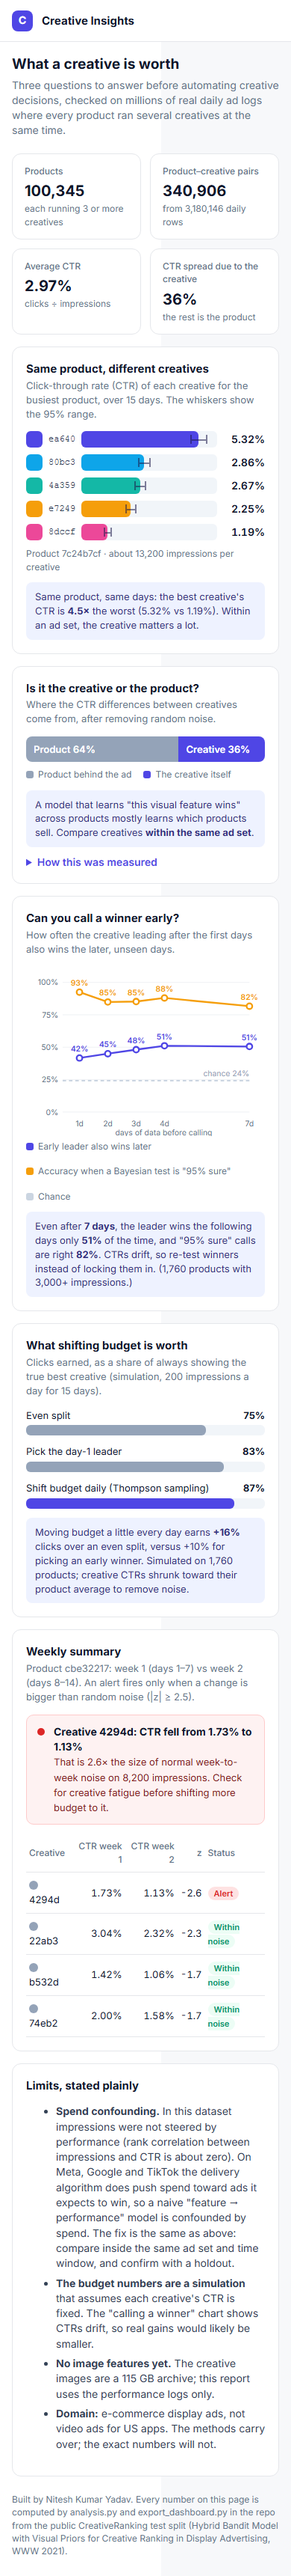
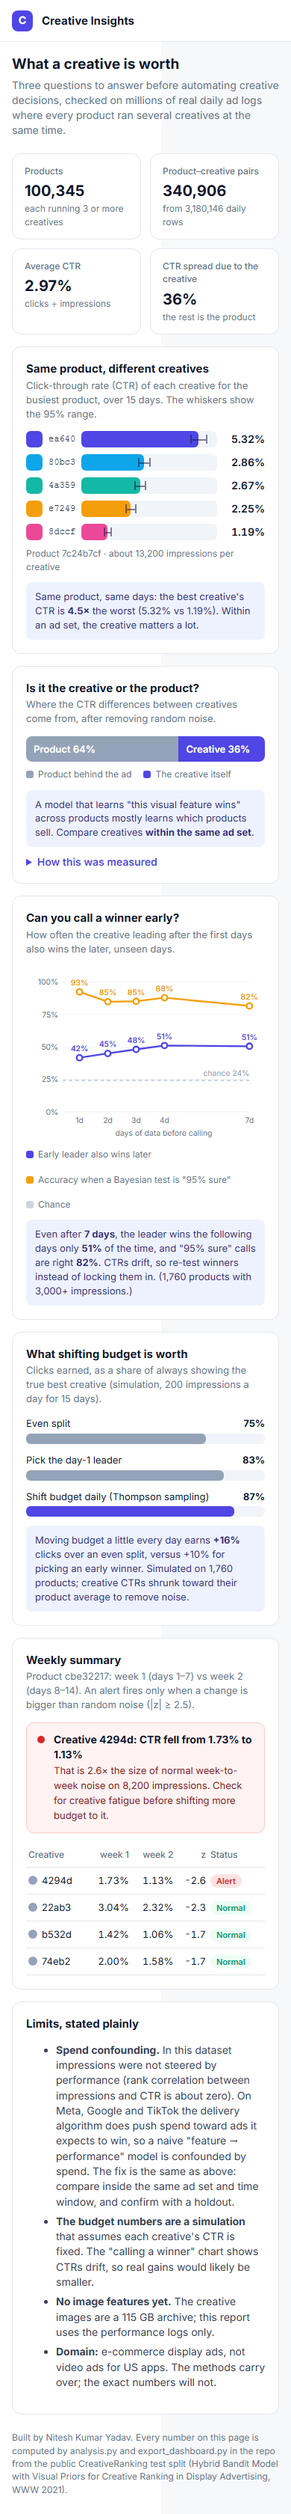
Dashboard: mobile fixes (chart axis labels, compact weekly table)

Changed region(s): [[0.0308, 0.0, 0.9538, 1.0]]

diff --git a/demo/index.html b/demo/index.html
@@ -44,14 +44,14 @@ svg text{font-family:Inter,system-ui,sans-serif}
 .alert{border:1px solid #fecaca;background:var(--bad-soft);border-radius:10px;padding:12px 14px;display:flex;gap:12px;align-items:flex-start}
 .alert .dot{width:10px;height:10px;border-radius:50%;background:var(--bad);margin-top:5px;flex:none}
 .alert b{display:block}.alert span{color:#7f1d1d;font-size:13px}
-table{width:100%;border-collapse:collapse;margin-top:12px;font-size:13px}th,td{text-align:left;padding:8px 6px;border-bottom:1px solid var(--line)}
+table{width:100%;border-collapse:collapse;margin-top:12px;font-size:13px}th,td{text-align:left;padding:8px 6px;border-bottom:1px solid var(--line);white-space:nowrap}
 th{color:var(--muted);font-weight:500;font-size:12px}td.n{text-align:right;font-variant-numeric:tabular-nums}
 .tag{font-size:11px;font-weight:600;padding:2px 8px;border-radius:999px}.tag.ok{background:#ecfdf5;color:var(--good)}.tag.bad{background:#fee2e2;color:var(--bad)}
 .notes{margin-top:16px}.notes li{margin:6px 0;color:#334155}
 details summary{cursor:pointer;color:var(--brand);font-weight:600;margin-top:10px}
 footer{color:var(--muted);font-size:12px;margin:22px 0 8px}
 @media (max-width:980px){nav{display:none}.grid{grid-template-columns:1fr}.kpis{grid-template-columns:repeat(2,minmax(0,1fr))}}
-@media (max-width:520px){.hide-m{display:none}th,td{padding:8px 4px}main{padding:16px}.top{padding:0 16px}.pill{display:none}.row{grid-template-columns:66px 1fr 56px;gap:8px}.kpi .v{font-size:20px}h1{font-size:19px}}
+@media (max-width:520px){.hide-m{display:none}th,td{padding:8px 3px}main{padding:16px}.top{padding:0 16px}.pill{display:none}.row{grid-template-columns:66px 1fr 56px;gap:8px}.kpi .v{font-size:20px}h1{font-size:19px}}
 </style>
 </head>
 <body>
@@ -111,7 +111,7 @@ footer{color:var(--muted);font-size:12px;margin:22px 0 8px}
       <h2>Weekly summary</h2>
       <p class="q" id="weeklyQ"></p>
       <div id="alertBox"></div>
-      <div style="overflow-x:auto"><table><thead><tr><th>Creative</th><th class="n" style="text-align:right">CTR week 1</th><th style="text-align:right">CTR week 2</th><th class="hide-m" style="text-align:right">Impressions (week 2)</th><th style="text-align:right">z</th><th>Status</th></tr></thead><tbody id="weeklyRows"></tbody></table></div>
+      <div style="overflow-x:auto"><table><thead><tr><th>Creative</th><th class="n" style="text-align:right"><span class="hide-m">CTR </span>week 1</th><th style="text-align:right"><span class="hide-m">CTR </span>week 2</th><th class="hide-m" style="text-align:right">Impressions (week 2)</th><th style="text-align:right">z</th><th>Status</th></tr></thead><tbody id="weeklyRows"></tbody></table></div>
     </section>
   </div>
 
@@ -155,13 +155,13 @@ document.getElementById('split').innerHTML = `<div style="width:${sb * 100}%;bac
 document.getElementById('splitHow').textContent = `${fmt(vs.creatives)} creatives with at least ${vs.min_imp} impressions, across ${fmt(vs.products)} products. CTR variance is split into between-product and within-product parts, and the expected binomial noise is subtracted from the within-product part so randomness is not counted as a creative effect.`;
 // winner chart (SVG)
 (function () {
-  const rows = D.early_call.by_day, narrow = innerWidth < 520, W = narrow ? 340 : 520, H = narrow ? 240 : 230, L = 52, R = 22, T = 22, B = 34;
+  const rows = D.early_call.by_day, narrow = innerWidth < 520, W = narrow ? 340 : 520, H = narrow ? 252 : 230, L = 52, R = 22, T = 22, B = narrow ? 46 : 34;
   const xs = rows.map(r => r.days_observed), xmax = Math.max(...xs);
   const X = d => L + 24 + (d - 1) / (xmax - 1) * (W - L - R - 24), Y = v => T + (1 - v) * (H - T - B);
   let s = `<svg viewBox="0 0 ${W} ${H}" width="100%" role="img" aria-label="Early leader accuracy by days observed">`;
   [0, .25, .5, .75, 1].forEach(v => s += `<line x1="${L}" x2="${W - R}" y1="${Y(v)}" y2="${Y(v)}" stroke="#eef0f3"/><text x="${L - 6}" y="${Y(v) + 4}" font-size="11" fill="#64748b" text-anchor="end">${v * 100}%</text>`);
-  xs.forEach(d => s += `<text x="${X(d)}" y="${H - 14}" font-size="11" fill="#64748b" text-anchor="middle">${d}d</text>`);
-  s += `<text x="${(W + L) / 2}" y="${H - 1}" font-size="11" fill="#64748b" text-anchor="middle">days of data before calling</text>`;
+  xs.forEach(d => s += `<text x="${X(d)}" y="${Y(0) + 16}" font-size="11" fill="#64748b" text-anchor="middle">${d}d</text>`);
+  s += `<text x="${(W + L) / 2}" y="${Y(0) + 34}" font-size="11" fill="#64748b" text-anchor="middle">days of data before calling</text>`;
   const ch = D.early_call.chance_level;
   s += `<line x1="${L}" x2="${W - R}" y1="${Y(ch)}" y2="${Y(ch)}" stroke="#cbd5e1" stroke-dasharray="5 4" stroke-width="2"/><text x="${W - R}" y="${Y(ch) - 6}" font-size="11" fill="#94a3b8" text-anchor="end">chance ${pct(ch, 0)}</text>`;
   const line = (key, col) => { const pts = rows.filter(r => r[key] != null).map(r => [X(r.days_observed), Y(r[key]), r[key]]);
@@ -184,7 +184,7 @@ document.getElementById('weeklyQ').textContent = `Product ${D.weekly.product}: w
 document.getElementById('alertBox').innerHTML = al.length ? al.map(r => `<div class="alert"><span class="dot"></span><div><b>Creative ${r.id.slice(0, 5)}: CTR ${r.z < 0 ? 'fell' : 'rose'} from ${pct(r.ctr_w1, 2)} to ${pct(r.ctr_w2, 2)}</b><span>That is ${Math.abs(r.z).toFixed(1)}× the size of normal week-to-week noise on ${fmt(r.imp_w2)} impressions. Check for creative fatigue before shifting more budget to it.</span></div></div>`).join('') : '<div class="take">No alerts this week: all changes were within noise.</div>';
 document.getElementById('weeklyRows').innerHTML = wr.map(r => `<tr><td><span class="sw" style="display:inline-block;width:12px;height:12px;vertical-align:-1px;margin-right:6px;background:#94a3b8"></span>${r.id.slice(0, 5)}</td>
   <td class="n">${pct(r.ctr_w1, 2)}</td><td class="n">${pct(r.ctr_w2, 2)}</td><td class="n hide-m">${fmt(r.imp_w2)}</td><td class="n">${r.z.toFixed(1)}</td>
-  <td>${r.alert ? '<span class="tag bad">Alert</span>' : '<span class="tag ok">Within noise</span>'}</td></tr>`).join('');
+  <td>${r.alert ? '<span class="tag bad">Alert</span>' : '<span class="tag ok">Normal</span>'}</td></tr>`).join('');
 // nav highlight
 const links = [...document.querySelectorAll('nav a')];
 addEventListener('scroll', () => { let cur = links[0]; links.forEach(a => { const el = document.querySelector(a.getAttribute('href')); if (el && el.getBoundingClientRect().top < 120) cur = a; }); links.forEach(a => a.classList.toggle('on', a === cur)); });
